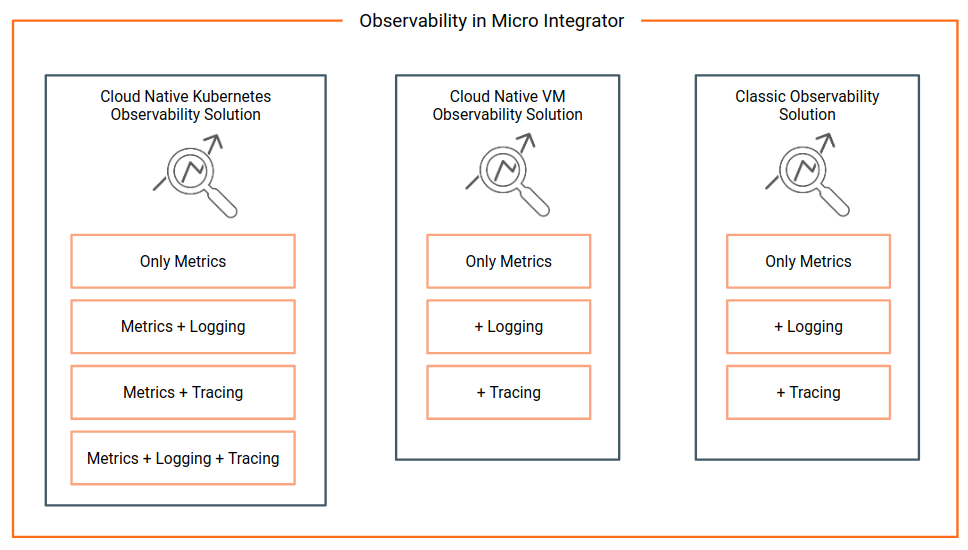
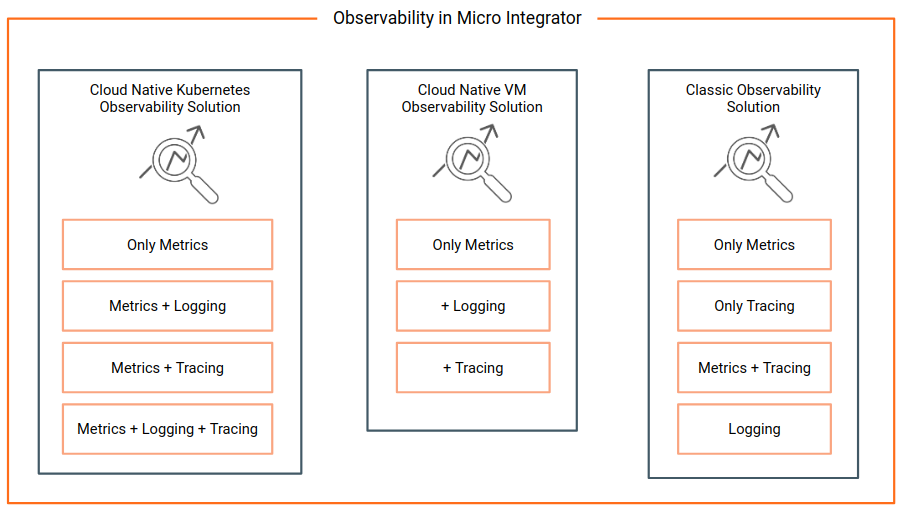
Update Observability Overview

diff --git a/en/micro-integrator/docs/administer-and-observe/observability-overview.md b/en/micro-integrator/docs/administer-and-observe/observability-overview.md
@@ -9,26 +9,22 @@ This section explains how to set up the observability solutions and perform mana
 
 Observability can be viewed as a superset of monitoring where monitoring is enriched with capabilities to perform debugging and profiling through rich context, log analysis, correlation, and tracing. Modern day observability resides on three pillars of **logs**, **metrics**, and **tracing**. Modern businesses require observability systems to self-sufficiently emit their current state(overview), generate alerts for any abnormalities detected to proactively identify failures, and to provide information to find the root causes of a system failure.
 
+### Observability solutions
+
 WSO2 Enterprise Integrator offers two observability solutions referred to as the cloud-native observability deployment and classic observability deployment.
 
-<img src="../../assets/img/observability/observability-mi.png" title="Observability Solution" width="500" alt="Observability Solution"/>
+<img src="../../assets/img/observability/observability-mi.png" title="Observability Solution" width="650" alt="Observability Solution"/>
 
-**Cloud-native Observability Deployment**
-
-This solution is more suitable in the following scenarios:
-
-- If you are creating a new cloud native deployment.
-- If you have Prometheus, Grafana and Jaeger as you in-house monitoring and observability tools.
-
-The cloud-native observability solution can be set up to have any of the following combination of operations.
+The cloud-native and classic observability solution are suitable for the following combination of operations.
 
 <table>
     <tr>
-        <th>Cloud-native solution</th>
+        <th>Observability solution</th>
         <th>Operations</th>
+        <th>Description</th>
     </tr>
     <tr>
-        <td>Kubernetes deployment</td>
+        <td>Kubernetes cloud-native solution</td>
         <td>
             <ul>
                 <li>Metrics only</li>
@@ -37,9 +33,10 @@ The cloud-native observability solution can be set up to have any of the followi
                 <li>Metrics + Logging + Tracing</li>
             </ul>
         </td>
+        <td>The default Kubernetes cloud-native solution comes with metrics enabled. You can also configure logging and tracing in combination with this. This solution is ideal if you want a complete cloud-native solution to observability and you already have Prometheus, Grafana, and Jaeger as your in-house monitoring and observability tools.</td>
     </tr>
     <tr>
-        <td>VM deployment</td>
+        <td>VM cloud-native deployment</td>
         <td>
             <ul>
                 <li>Metrics only</li>
@@ -47,18 +44,27 @@ The cloud-native observability solution can be set up to have any of the followi
                 <li>Tracing (add-on)</li>
             </ul>
         </td>
+        <td>The default VM cloud-native solution comes with metrics enabled. You can additionally set up logging or tracing separatly as part of this solution later. This solution is ideal if you want a complete cloud-native solution to observability, but you need to set this up on a VM. Ideally you would already have Prometheus, Grafana, and Jaeger as your in-house monitoring and observability tools.</td>
+    </tr>
+    <tr>
+        <td>Classic deployment</td>
+        <td>
+            <ul>
+                <li>Metrics only</li>
+                <li>Tracing only</li>
+                <li>Metrics and Tracing</li>
+                <li>Logging separately</li>
+            </ul>
+        </td>
+        <td>This solution uses the Analytics profile of WSO2 EI 6.x.x and if can be configured to have metrics and tracing by enabling them once set up. You will have to configure logging separately by setting it up in the Micro Integrator itself. This is useful if you require more business analytics and less operation observability and also if you already have an observability stack such as ELK.. This is a more simpler solution.</td>
     </tr>
 </table>
 
-**Classic Observability Deployment**
+* For instructions to set up the above observability solutions, see [Setting Up the cloud-native observability solutions](../setup/observability/setting-up-minimum-basic-observability-deployment.md) or [Setting up classic observability solution](../setup/observability/setting-up-classic-observability-deployment.md)
 
-This solution is more suitable in the following scenarios:
-    
-- If you require more business analytics and less operation observability.    
-- If you want a simpler deployment.
-- If you already have an observability stack such as ELK.
+* For more information on how to use the cloud-native solution, see [Cloud Native Observability Solution](cloud-native-observability-dashboards.md).
 
-The classic observability solution can be setup to have only metrics, and have logging and tracing as add-ons.
+* For more information on how to use the classic observability solution, see [Classic Observability Deployment](using-the-analytics-dashboard.md).
 
 ### Understanding observability solutions
 
@@ -67,14 +73,6 @@ WSO2 Enterprise Integrator 7.0.0 and older versions offer an analytics distribut
 To address that limitation, WSO2 Enterprise Integrator 7.1.0 introduced an observability solution that utilizes a selected set of external tools together with the older analytic distribution intact. This section explains the features and usage of both solutions. 
 
 The older analytics distribution is referred to as the Classic Observability Deployment, and the newer solution introduced with WSO2 Enterprise Integrator 7.1.0 is referred to as the Cloud Native Observability Deployment.
-
-### Next steps
-
-* If you are creating a new cloud-native deployment or if you have Prometheus, Grafana, and Jaeger as your in-house monitoring and observability tools, you can set  up and use the Cloud Native Observability Solution. For more information about this solution, see [Cloud Native Observability Solution](cloud-native-observability-dashboards.md).
-
-* If you already have an observability stack such as ELK, or if you want more business analytics and less operational observability, it is recommended for you to use the Classic Observability Deployment. For more information about this solution, see [Classic Observability Deployment](using-the-analytics-dashboard.md).
-
-* For instructions to set up the above observability solutions, see [Setting Up the Observability Solutions](../setup/observability/setting-up-minimum-basic-observability-deployment.md)
 
 ## Management
 

diff --git a/en/micro-integrator/docs/setup/observability/setting-up-classic-observability-deployment.md b/en/micro-integrator/docs/setup/observability/setting-up-classic-observability-deployment.md
@@ -1,6 +1,6 @@
 # Setting Up the Classic Observability Deployment
 
-This section provides you instructions to set up the Classic Observability Deployment Solution. This is one of the two observability solutions offered by WSO2 EI. This solution is more suitable if you already have an observability stack such as ELK,  or if you want more business analytics and less operational observability. For morer information about the observability solution, see [Observability Overview](observability-with-grafana-overview.md).
+This section provides you instructions to set up the Classic Observability Deployment Solution. This is one of the two observability solutions offered by WSO2 EI. This solution is more suitable if you already have an observability stack such as ELK,  or if you want more business analytics and less operational observability. For morer information about the observability solution, see [Observability Overview](../../administer-and-observe/observability-overview.md).
 
 ## System requirements
 
